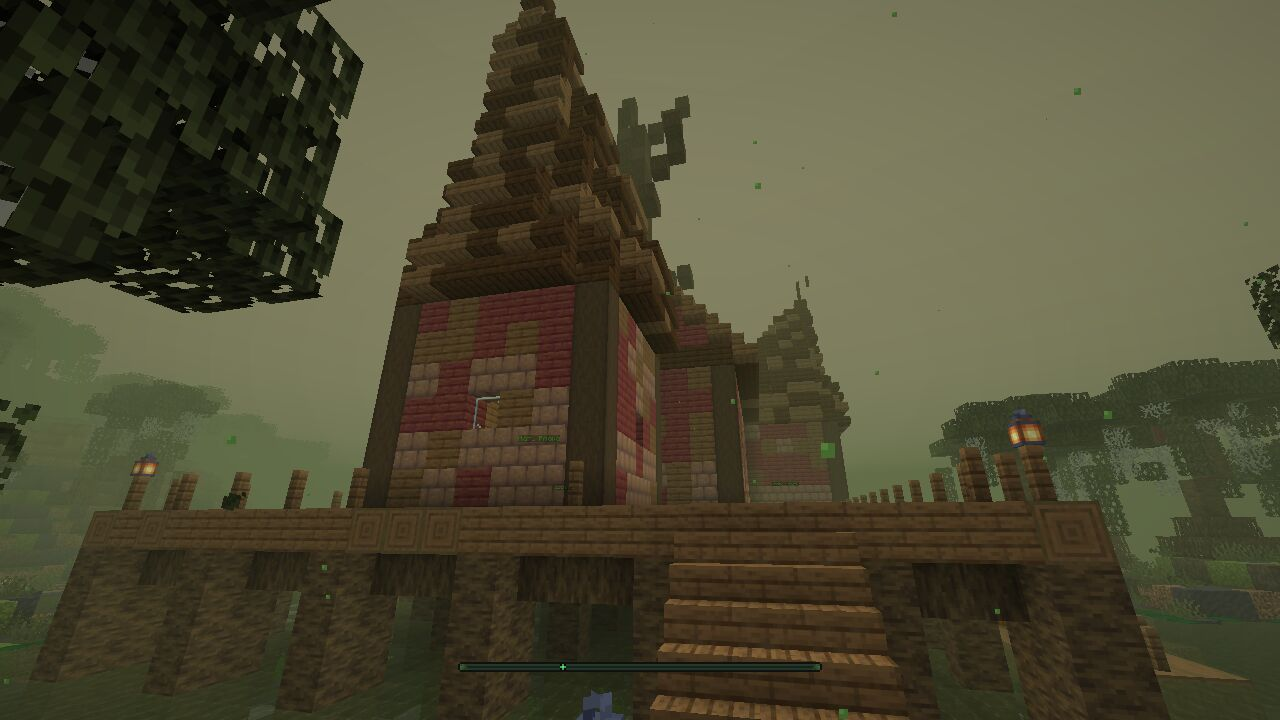
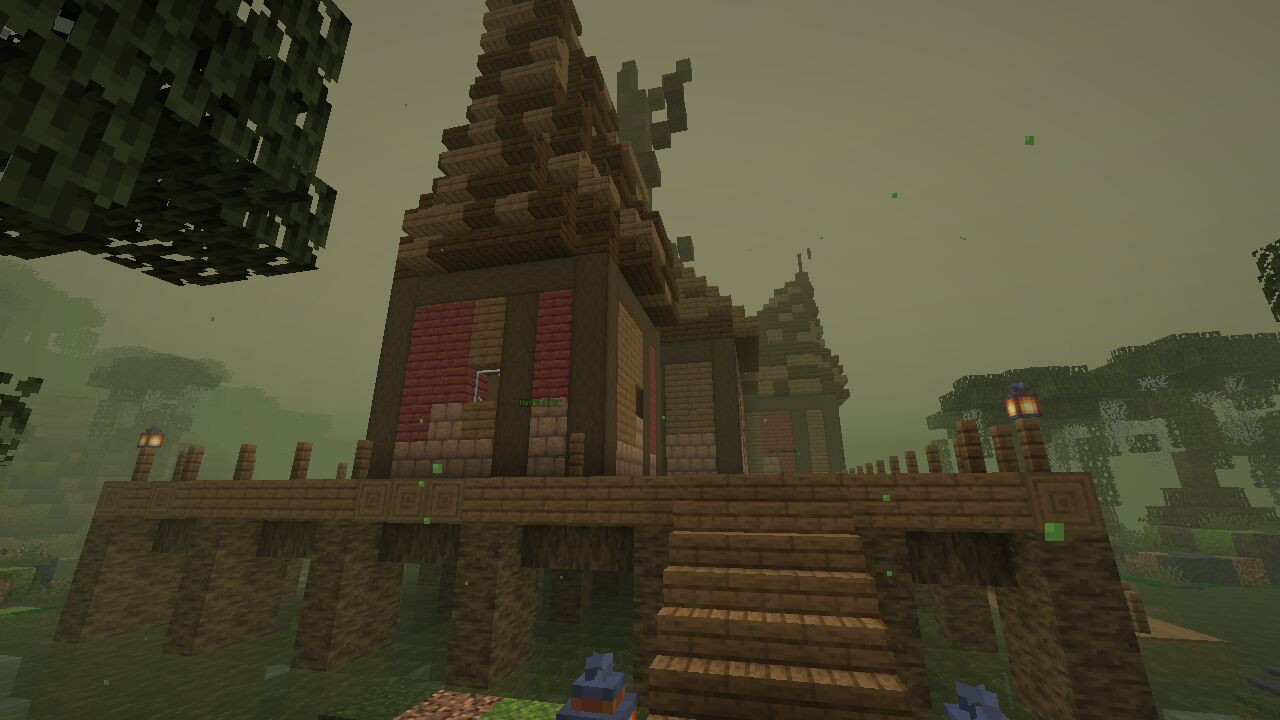
T-026: доработка по приёмке (одно имя над ведьмой, стены хижины, рагу 2 мин, таблички R1 вощёные)

diff --git a/tools/build/fens_build.py b/tools/build/fens_build.py
@@ -331,8 +331,19 @@ def hut(b, c, R):
     the pier on the west with stairs, the porch on the east with the stairs from the boardwalk, the raft garden in the south"""
     W = c.W; FL = W + 4; X1, X2, Z1, Z2 = R.HX1, R.HX2, R.HZ1, R.HZ2
     pts = {}
-    WALL = Mix({"mangrove_planks": 50, "spruce_planks": 38, "mud_bricks": 12}, 5601)
     FRAME = "minecraft:stripped_dark_oak_log[axis=y]"
+    def hq(a, b2, c2, salt):                            # a hash without the 2x2 squares of lib.h (splitmix over the three numbers)
+        v = (a * 0x9E3779B1 + b2 * 0x85EBCA77 + c2 * 0xC2B2AE3D + salt * 0x27D4EB2F + 0x165667B1) & 0xFFFFFFFF
+        v = ((v ^ (v >> 15)) * 0x2C1B3C6D) & 0xFFFFFFFF; v = ((v ^ (v >> 12)) * 0x297A2D39) & 0xFFFFFFFF; v ^= v >> 15
+        return (v & 0xFFFFFF) / 0x1000000
+    class Wall:
+        """the planks between the frame: vertical strips (a column = one wood: mangrove 57 / spruce 43), now and then a patch; mud bricks in the lowest rows"""
+        def at(self, x, y, z):
+            if y == FL + 1: return "minecraft:mud_bricks"
+            if y == FL + 2 and hq(x, 0, z, 5604) < 0.5: return "minecraft:mud_bricks"
+            if hq(x, y, z, 5603) < 0.04: return "minecraft:dark_oak_planks" if hq(x, y, z, 5605) < 0.5 else "minecraft:mud_bricks"
+            return "minecraft:mangrove_planks" if hq(x, 0, z, 5601) < 0.57 else "minecraft:spruce_planks"
+    WALL = Wall()
     # the platform and its beams and piles
     for x in range(X1, X2 + 1):
         for z in range(Z1, Z2 + 1):
@@ -357,8 +368,11 @@ def hut(b, c, R):
                 edge = x in (x1, x2) or z in (z1, z2)
                 for y in range(FL + 1, FL + hgt + 1):
                     if not edge: b.set(x, y, z, "minecraft:air"); continue
+                    alongx = z in (z1, z2)               # a wall along x (else along z)
+                    a = (x - x1) if alongx else (z - z1)
                     if x in (x1, x2) and z in (z1, z2): b.set(x, y, z, FRAME)
-                    elif y <= FL + 2 and hsh(x, y, z, salt) < 0.6: b.set(x, y, z, "minecraft:mud_bricks")
+                    elif y == FL + hgt: b.set(x, y, z, "minecraft:stripped_dark_oak_log[axis=%s]" % ("x" if alongx else "z"))     # the belt under the roof
+                    elif a % 4 == 0: b.set(x, y, z, FRAME)                                                                          # a post every 4
                     else: b.set(x, y, z, WALL.at(x, y, z))
                 b.set(x, FL + hgt + 1, z, "minecraft:dark_oak_planks" if edge else "minecraft:spruce_planks")     # ceiling
     for r, s in ((HALL, 5610), (MOTHER, 5611), (MAIDEN, 5612), (CRONE, 5613)): room(r, s)
@@ -375,6 +389,8 @@ def hut(b, c, R):
     opening(-398, 339, "z", 1)
     opening(-380, 334, "x", 1)                         # the Maiden's door in her south wall (to the porch)
     opening(-380, 345, "x", 1)                         # the Crone's door in her north wall (to the porch) - the hall's south-east corner is x -384
+    for (px, pz) in ((-384, 338), (-384, 341), (-396, 338), (-396, 340), (-398, 338), (-398, 340), (-381, 334), (-379, 334), (-381, 345), (-379, 345)):
+        for y in range(FL + 1, FL + 6): b.set(px, y, pz, FRAME)                       # door posts
     # windows (glass panes) in the towers and the hall
     for (x, y, z) in ((-404, FL + 3, 339), (-401, FL + 3, 336), (-401, FL + 3, 342), (-380, FL + 3, 328), (-377, FL + 3, 331), (-377, FL + 3, 348),
                       (-380, FL + 3, 351), (-390, FL + 4, 334), (-393, FL + 4, 345), (-387, FL + 4, 345)):

diff --git a/tools/build/fens_dp.py b/tools/build/fens_dp.py
@@ -54,7 +54,7 @@ PRESETS = [
     'potion_healing2 minecraft:potion {"minecraft:potion_contents":{potion:"minecraft:strong_healing"}}',
     'potion_strength minecraft:potion {"minecraft:potion_contents":{potion:"minecraft:strength"}}',
     'antidote minecraft:potion {"minecraft:custom_data":{le_antidote:1b},"minecraft:custom_name":{text:"Противоядие",italic:false,color:"green"},"minecraft:potion_contents":{custom_color:11141120},"minecraft:lore":[{text:"Снимает отравление и иссушение.",color:"gray",italic:false},{text:"60 секунд невосприимчивости к ним.",color:"gray",italic:false}]}',
-    'stew_night_vision minecraft:suspicious_stew {"minecraft:suspicious_stew_effects":[{id:"minecraft:night_vision",duration:100}]}',
+    'stew_night_vision minecraft:suspicious_stew {"minecraft:suspicious_stew_effects":[{id:"minecraft:night_vision",duration:2400}]}',
     'book_protection1 minecraft:enchanted_book {"minecraft:stored_enchantments":{"minecraft:protection":1}}',
     'book_sharpness2 minecraft:enchanted_book {"minecraft:stored_enchantments":{"minecraft:sharpness":2}}',
     'arrows_poison minecraft:tipped_arrow {"minecraft:potion_contents":{potion:"minecraft:poison"}}',
@@ -86,9 +86,9 @@ def run(R, meta):
     L = [hdr + "every second: the witches and the talk boxes stand (built when their chunk is loaded, rebuilt when missing)"]
     for k in (1, 2, 3):
         x, y, z, yaw = witch[k]
-        nbt = ('{NoAI:1b,Invulnerable:1b,PersistenceRequired:1b,Silent:1b,CustomNameVisible:1b,CustomName:{"text":"%s","color":"dark_green"},'
+        nbt = ('{NoAI:1b,Invulnerable:1b,PersistenceRequired:1b,Silent:1b,'
                'Rotation:[%.1ff,0f],Tags:["le.npc","le.keep","le.noelite","le.fw","le.fw%d"],CanPickUpLoot:0b,'
-               'active_effects:[{id:"minecraft:water_breathing",amplifier:0b,duration:-1,show_particles:0b,show_icon:0b},{id:"minecraft:fire_resistance",amplifier:0b,duration:-1,show_particles:0b,show_icon:0b}]}') % (NAMES[k], yaw, k)
+               'active_effects:[{id:"minecraft:water_breathing",amplifier:0b,duration:-1,show_particles:0b,show_icon:0b},{id:"minecraft:fire_resistance",amplifier:0b,duration:-1,show_particles:0b,show_icon:0b}]}') % (yaw, k)
         w("witch_%d" % k, [hdr + "the witch %d (%s)" % (k, NAMES[k]), "kill @e[type=minecraft:witch,tag=le.fw%d]" % k,
                            "summon minecraft:witch %.1f %d %.1f %s" % (x + 0.5, y, z + 0.5, nbt)])
         L.append("execute if loaded %d %d %d unless entity @e[type=minecraft:witch,tag=le.fw%d,x=%.1f,y=%d,z=%.1f,distance=..3] run function last_ember:fens/gen/witch_%d" % (x, y, z, k, x + 0.5, y, z + 0.5, k))

diff --git a/tools/test_fens.py b/tools/test_fens.py
@@ -152,6 +152,10 @@ def t_witches():
     chk("a witch gone (killed by a command) stands again within a second", count("@e[type=minecraft:witch,tag=le.fw2]") == 1)
     R("tp @e[type=minecraft:witch,tag=le.fw3] ~3 ~ ~"); time.sleep(2.5)
     chk("a witch moved goes back to her place", pos("@e[type=minecraft:witch,tag=le.fw3,limit=1]") == p0[3], pos("@e[type=minecraft:witch,tag=le.fw3,limit=1]"))
+    nm = {k: R(f"data get entity @e[type=minecraft:witch,tag=le.fw{k},limit=1] CustomName") for k in (1, 2, 3)}
+    tn = {k: R(f"data get entity @e[type=minecraft:villager,tag=le.tr_witch_{KEY[k]},limit=1] CustomName") for k in (1, 2, 3)}
+    chk("one name over each witch: the witch has none, her (invisible) trader has it, dark green, always visible", all("no entity" not in tn[k] and "dark_green" in tn[k] for k in (1, 2, 3))
+        and all("dark_green" not in nm[k] and "Found no elements" in nm[k] or "No elements" in nm[k] for k in (1, 2, 3)) and all("1b" in R(f"data get entity @e[type=minecraft:villager,tag=le.tr_witch_{KEY[k]},limit=1] CustomNameVisible") for k in (1, 2, 3)), (nm, tn))
     unstage()
 
 # ------------------------------------------------------------------------------------------------ trade
@@ -172,6 +176,7 @@ def t_trade():
             if n2: R(f"give Cam minecraft:{ING[k]} {n2}")
             okb = buy("Cam", k, i)
             chk(f"{KEY[k]} deal {i + 1}: bought ({goods[k][i]})", okb and goods[k][i] in inv("Cam") and "nautilus_shell" not in inv("Cam"), (okb, inv("Cam")[:160]))
+    chk("the stew of the Maiden: night vision for 2 minutes (2400 ticks)", "duration: 2400" in R(f"data get entity {T(2)} Offers.Recipes[1].sell") and "night_vision" in R(f"data get entity {T(2)} Offers.Recipes[1].sell"))
     R("clear Cam"); tc.setc(1, 1, 0, "Cam"); R("gamemode survival Cam"); trophy("Cam", 4); R("give Cam minecraft:feather 8")
     for _ in range(3):                               # a click may come before the window can open: again
         face_witch("Cam", 2); time.sleep(0.4); tc.act("Cam", "!use"); time.sleep(1.5)

diff --git a/tools/gen_traders.py b/tools/gen_traders.py
@@ -56,9 +56,9 @@ for t in traders:
     if typ == "villager": nbt.append('VillagerData:{type:"minecraft:%s",profession:"minecraft:%s",level:5}' % (P.get("vtype", "plains"), P.get("prof", "none"))); nbt.append("Xp:0")
     else: nbt.append("DespawnDelay:0")
     if "scale" in P: nbt.append('attributes:[{id:"minecraft:scale",base:%s}]' % P["scale"])
-    if P.get("invisible") == "1":      # T-026: the trade window of a figure standing in it (the witches): invisible, the name only in the window
+    if P.get("invisible") == "1":      # T-026: the trade window of a figure standing in it (the witches): invisible; the only name over her is the trader's (dark green), also in the window
         nbt.append('active_effects:[{id:"minecraft:invisibility",amplifier:0b,duration:-1,show_particles:0b,show_icon:0b,ambient:1b}]')
-        nbt[nbt.index('CustomNameVisible:1b')] = 'CustomNameVisible:0b'
+        nbt[nbt.index('CustomName:{"text":"%s","color":"gold"}' % J(name))] = 'CustomName:{"text":"%s","color":"dark_green"}' % J(name)     # the one name over the witch (the witch herself has none)
         nbt[nbt.index('Tags:["le.npc","le.trader","le.noelite","le.tr_%s"]' % i)] = 'Tags:["le.npc","le.trader","le.noelite","le.keep","le.tr_%s"]' % i
     pos = "%d %d %d" % (t["x"], t["y"], t["z"])
     w("build_" + i, ["# generated: the trader %s" % i, "scoreboard players set #trader_%s_bl le.tr 1" % i,

diff --git a/tools/build/r1.py b/tools/build/r1.py
@@ -529,7 +529,7 @@ def signposts(W, P, tr):
             P.set(px, y + 3, pz, "spruce_fence[east=true]" if dx >= 0 else "spruce_fence[west=true]")
             ax = px + (1 if dx >= 0 else -1)
             P.set(ax, y + 3, pz, "spruce_fence[west=true]" if dx >= 0 else "spruce_fence[east=true]")
-            P.set(ax, y + 2, pz, "spruce_hanging_sign[rotation=%d]" % (4 if dx >= 0 else 12)); n += 1
+            P.set(ax, y + 2, pz, "spruce_hanging_sign[rotation=%d]{is_waxed:1b}" % (4 if dx >= 0 else 12)); n += 1
             break
     return n
 

diff --git a/docs/tasks/T-026-review.md b/docs/tasks/T-026-review.md
@@ -1,0 +1,36 @@
+# T-026 · Приёмка Штаба
+
+Штаб → билдер · 20.11.2026 · PR #90 (`claude/t026-fens`)
+
+**Итог: принято с короткой доработкой** (пункты 1–4 ниже). После доработки — слияние без отдельной приёмки, затем T-027.
+
+## Что смотрел
+- Отчёт `docs/reports/T-026-report.md`, план `fens_plan.png`, все кадры `docs/reports/T-026/`, код `function/fens/`, правки общих генераторов.
+- `tools/check_gen.sh` на ветке PR в облаке: все генераторы дают закоммиченный вывод, кроме `gen_lab.py`, который здесь не запустился (нет клиентского jar `server/mc`; PR его не трогает). Мир с нуля не пересобирал: отчёт даёт `rebuild.sh` с нуля, `places fens` 0, 94/94 тестов, нагрузка 0,19 мс при лимите 0,5.
+
+## Хорошо
+- Чаша на плато решена чисто: проверки Штаба встроены в сборку и останавливают её, бровка ≤ 8, срезка > 15 на 0 %. План читается, хижина в центре, протока петляет через руины, подъём от костра № 5 — 93 клетки без прыжков.
+- Механика полная: выбор один на игру, цены ×1,5 без сброса `maxUses`, потеря всех трёх вещей восстанавливается, Венец и Зов работают, головы ведут себя по заданию (проверено настоящим броском Q).
+- Ведьма без ИИ пьёт зелья — найдено и закрыто правильно (условия не наступают + страховка раз в секунду).
+- Попутные исправления `%d.5` в `gen_traders.py`/`gen_zones.py` — важная находка, спасибо. Правило «половина блока только `x + 0.5` числом» — в CLAUDE.md, хорошо.
+
+## Ответы на вопросы
+1. **Стол зачарования, верхний уровень 18 при 7 полках** — так и задумано (`economy.md`: «уровень стола до ~20»). Оставить.
+2. **Висячие таблички троп рамки R1** — да, вощить (`is_waxed`). Вывод рамки R1 изменится — закоммитить новый вывод.
+3. **Чаша W−7 вместо W−6** — подтверждаю.
+4. **Рагу с ночным зрением** — 5 с за Трофей и 4 пера не годится. Сделать **ночное зрение 2 минуты** (`suspicious_stew_effects`, 2400 тиков) — в заготовке `traders/items.txt`.
+
+## Доработка
+1. **Два имени над ведьмой** (кадр `witch_crone.jpg`: «Старуха Кость» золотым над зелёным). Это имя невидимого жителя: ванилла рисует имя сущности под прицелом даже при `CustomNameVisible:0b`. Нужно одно имя над ведьмой, одного цвета, при любом взгляде. Имя в заголовке окна торговли оставить. Проверить кадром: камера смотрит прямо на ведьму вблизи.
+2. **Стены хижины — «лоскутное одеяло».** На кадрах `hall.jpg` и `hut_from_water.jpg` доски перемешаны квадратами 2×2, стены рябят. Палитра карточки та же, но раскладка как у постройки: низ 1–2 ряда `mud_bricks`, каркас `stripped_dark_oak_log` по углам, у проёмов и поясом под крышей, между каркасом — доски вертикальными полосами (столбец = одна порода, `mangrove_planks`/`spruce_planks` с долями 40/30), можно редкие заплаты. Кадры зала и хижины с воды заново.
+3. **Рагу** — ночное зрение 2 мин (ответ 4).
+4. **Таблички троп R1** — вощить (ответ 2).
+
+Мостки: принимаю как есть (4 провала, кочка в 1 клетку). Прыжок через клетку воды на кочку для живого игрока простой; падения бота — от 6–9 кадров/с облачного клиента. Расширять кочку не нужно.
+
+Мирная сложность убирает ведьм — принимаю; Эдвард играет не на мирной.
+
+## Проверка доработки
+- `test_fens.py build witches trade` (имя: кадр, 1 табличка имени; цена и рагу 2 мин — `trader/stock` или покупка), кадры `hall`, `hut_from_water`, `witch_*` заново.
+- Повтор шага `r1_apply` на готовом мире — 0 столбцов вне места; `tools/check_gen.sh` OK.
+- Дописать в отчёт раздел «Доработка», положить этот файл в PR как `docs/tasks/T-026-review.md`.

diff --git a/docs/reports/T-026-report.md b/docs/reports/T-026-report.md
@@ -189,3 +189,14 @@
 2. Висячие таблички троп рамки R1 (`r1.py`) не вощёные: их в выживании можно переписать ПКМ. Вощить и их (изменится вывод рамки R1)?
 3. Порог чаши W−7 вместо W−6 (п. 1) — подтверждаете?
 4. Рагу с ночным зрением на 5 с — оставить ванильное или дать дольше?
+
+## Доработка по приёмке (20.11.2026)
+
+**ДЛЯ ШТАБА:** все четыре пункта приёмки сделаны, мир пересобран с нуля (`rebuild.sh`), `places fens` — 0 столбцов вне места, `tools/check_gen.sh` — OK, `test_fens.py build witches trade` — 29/29 (включая две новые проверки).
+
+1. **Одно имя над ведьмой.** Имя теперь только у невидимого жителя-торговца (тёмно-зелёное, `CustomNameVisible:1b`), у самой ведьмы имени нет. Одна табличка при любом взгляде, то же имя в заголовке окна. Кадры `witch_{mother,maiden,crone}.jpg` — камера вплотную, одно имя. Проверка в `test_fens.py witches` (у ведьмы нет `CustomName`, у торговца есть, тёмно-зелёное, видимое).
+2. **Стены хижины.** Низ: 1-й ряд `mud_bricks`, 2-й наполовину; каркас `stripped_dark_oak_log` по углам, столбы каждые 4 клетки и у проёмов, пояс под крышей вдоль стены; между каркасом вертикальные полосы (столбец = одна порода, `mangrove_planks` 57 / `spruce_planks` 43), редкие заплаты (4%). Хеш `lib.h` давал квадраты 2×2, в хижине своя функция без них. Кадры `hall.jpg`, `hut_from_water.jpg`, `hut_from_pier.jpg`, `room_*` обновлены.
+3. **Рагу** с ночным зрением — 2400 тиков (2 мин) в заготовке `stew_night_vision`; проверено по `Offers` и в тесте.
+4. **Таблички троп R1** вощёные (`{is_waxed:1b}` у `spruce_hanging_sign` в `r1.py`); вывод рамки R1 пересобран, `places` 0.
+
+Ответ на вопрос 1–4 принят (стол 18 уровня оставлен, порог W−7).
